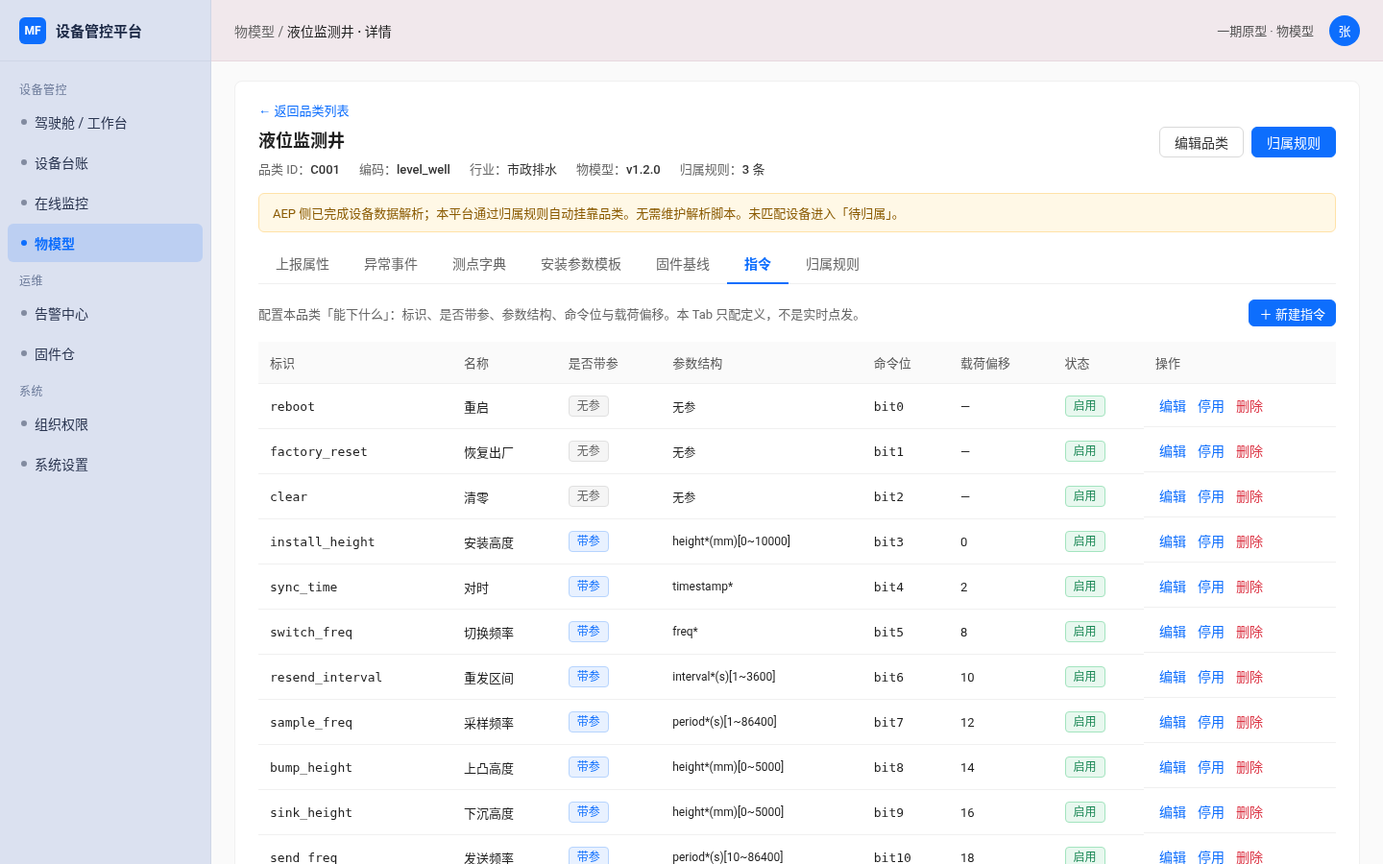
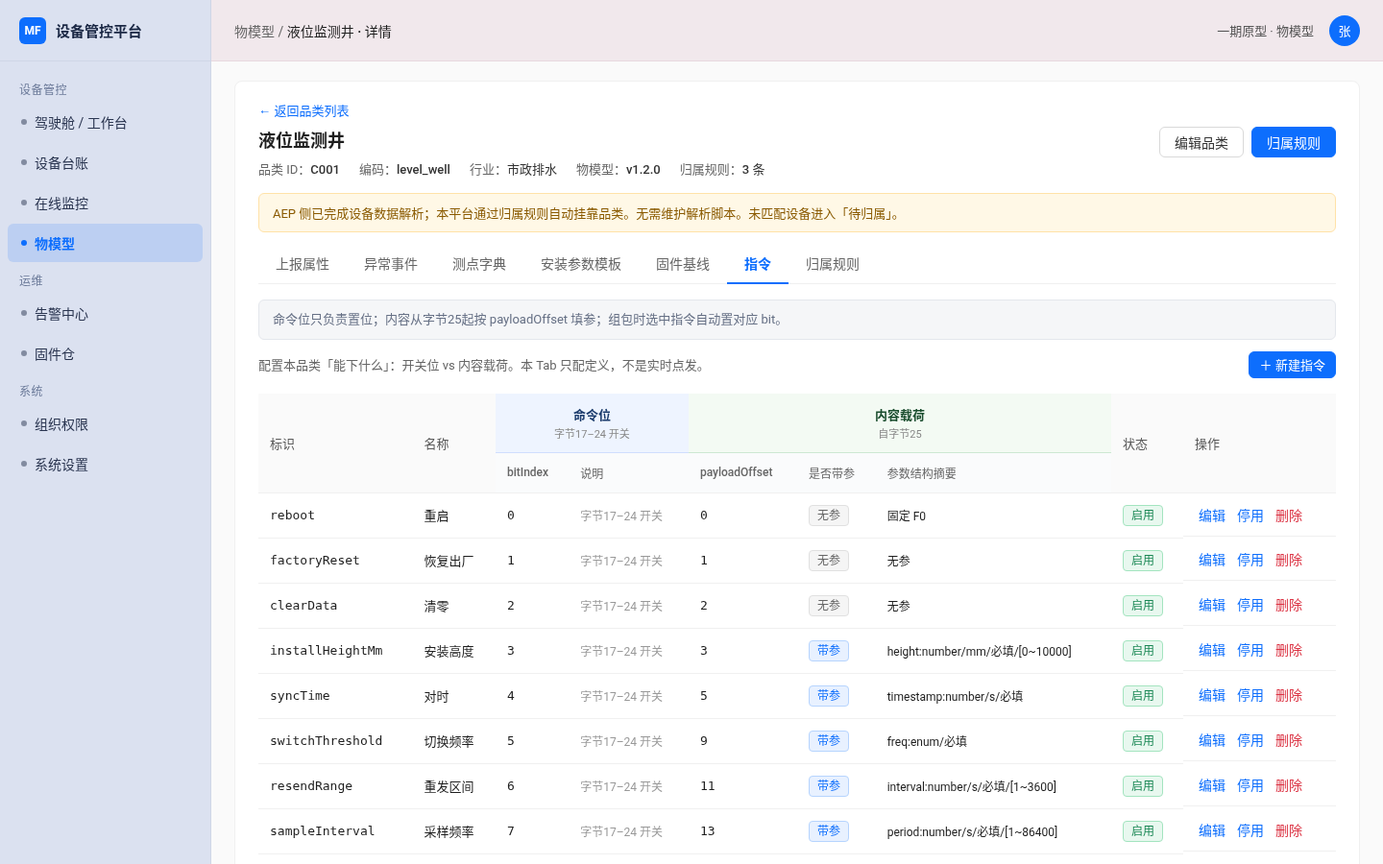
feat: 指令配置拆成命令位开关 + 内容载荷两段

diff --git a/app.js b/app.js
@@ -59,45 +59,46 @@ const FIRMWARES = [
 ];
 
 /* 指令配置：物模型侧定义该品类「能下什么」（非实时点发台）
- * 积水仪命令包 FAFA…ADAD 按位开关；真正下发走 AEP CreateCommand（透传 hex，dataType=2） */
+ * 积水仪 FAFA…ADAD：字节17–24 为 8 字节命令开关位（bit=1 执行）；字节25 起为内容载荷（按 payloadOffset 填参）。
+ * 真正下发走 AEP CreateCommand（透传 hex，dataType=2） */
 const COMMANDS = [
-  { id: 'CMD01', categoryId: 'C001', code: 'reboot', name: '重启', hasParams: false, cmdBit: 0, payloadOffset: null, enabled: true, desc: '积水仪命令包 bit0：远程重启',
+  { id: 'CMD01', categoryId: 'C001', code: 'reboot', name: '重启', hasParams: false, bitIndex: 0, payloadOffset: 0, fixedPayload: 'F0', enabled: true, desc: '开关位 bit0；载荷固定写 F0（或应答 0F）',
     params: [] },
-  { id: 'CMD02', categoryId: 'C001', code: 'factoryReset', name: '恢复出厂', hasParams: false, cmdBit: 1, payloadOffset: null, enabled: true, desc: '积水仪命令包 bit1：恢复出厂设置',
+  { id: 'CMD02', categoryId: 'C001', code: 'factoryReset', name: '恢复出厂', hasParams: false, bitIndex: 1, payloadOffset: 1, fixedPayload: '', enabled: true, desc: '开关位 bit1；无可变参',
     params: [] },
-  { id: 'CMD03', categoryId: 'C001', code: 'clearData', name: '清零', hasParams: false, cmdBit: 2, payloadOffset: null, enabled: true, desc: '积水仪命令包 bit2：累计/计数清零',
+  { id: 'CMD03', categoryId: 'C001', code: 'clearData', name: '清零', hasParams: false, bitIndex: 2, payloadOffset: 2, fixedPayload: '', enabled: true, desc: '开关位 bit2；无可变参',
     params: [] },
-  { id: 'CMD04', categoryId: 'C001', code: 'installHeightMm', name: '安装高度', hasParams: true, cmdBit: 3, payloadOffset: 0, enabled: true, desc: '积水仪命令包 bit3：下发安装高度（mm）',
+  { id: 'CMD04', categoryId: 'C001', code: 'installHeightMm', name: '安装高度', hasParams: true, bitIndex: 3, payloadOffset: 3, fixedPayload: '', enabled: true, desc: '开关位 bit3；载荷写安装高度（mm）',
     params: [
-      { name: 'height', type: 'number', unit: 'mm', required: true, min: '0', max: '10000', defaultVal: '300', desc: '探头安装高度' }
+      { name: 'height', dataType: 'number', unit: 'mm', required: true, min: '0', max: '10000', defaultVal: '300', desc: '探头安装高度' }
     ] },
-  { id: 'CMD05', categoryId: 'C001', code: 'syncTime', name: '对时', hasParams: true, cmdBit: 4, payloadOffset: 2, enabled: true, desc: '积水仪命令包 bit4：设备时钟对时',
+  { id: 'CMD05', categoryId: 'C001', code: 'syncTime', name: '对时', hasParams: true, bitIndex: 4, payloadOffset: 5, fixedPayload: '', enabled: true, desc: '开关位 bit4；载荷写 unix 时间',
     params: [
-      { name: 'timestamp', type: 'string', unit: '-', required: true, min: '', max: '', defaultVal: '', desc: 'UTC 秒或 yyyyMMddHHmmss' }
+      { name: 'timestamp', dataType: 'number', unit: 's', required: true, min: '', max: '', defaultVal: '', desc: 'Unix 秒（UTC）' }
     ] },
-  { id: 'CMD06', categoryId: 'C001', code: 'switchThreshold', name: '切换频率', hasParams: true, cmdBit: 5, payloadOffset: 8, enabled: true, desc: '积水仪命令包 bit5：工作频率档位切换',
+  { id: 'CMD06', categoryId: 'C001', code: 'switchThreshold', name: '切换频率', hasParams: true, bitIndex: 5, payloadOffset: 9, fixedPayload: '', enabled: true, desc: '开关位 bit5；工作频率档位',
     params: [
-      { name: 'freq', type: 'enum', unit: '-', required: true, min: '', max: '', defaultVal: '1', desc: '档位：1=低频 / 2=中频 / 3=高频' }
+      { name: 'freq', dataType: 'enum', unit: '-', required: true, min: '', max: '', defaultVal: '1', desc: '档位：1=低频 / 2=中频 / 3=高频' }
     ] },
-  { id: 'CMD07', categoryId: 'C001', code: 'resendRange', name: '重发区间', hasParams: true, cmdBit: 6, payloadOffset: 10, enabled: true, desc: '积水仪命令包 bit6：失败重发时间窗',
+  { id: 'CMD07', categoryId: 'C001', code: 'resendRange', name: '重发区间', hasParams: true, bitIndex: 6, payloadOffset: 11, fixedPayload: '', enabled: true, desc: '开关位 bit6；失败重发时间窗',
     params: [
-      { name: 'interval', type: 'number', unit: 's', required: true, min: '1', max: '3600', defaultVal: '60', desc: '重发区间秒数' }
+      { name: 'interval', dataType: 'number', unit: 's', required: true, min: '1', max: '3600', defaultVal: '60', desc: '重发区间秒数' }
     ] },
-  { id: 'CMD08', categoryId: 'C001', code: 'sampleInterval', name: '采样频率', hasParams: true, cmdBit: 7, payloadOffset: 12, enabled: true, desc: '积水仪命令包 bit7：采样周期',
+  { id: 'CMD08', categoryId: 'C001', code: 'sampleInterval', name: '采样频率', hasParams: true, bitIndex: 7, payloadOffset: 13, fixedPayload: '', enabled: true, desc: '开关位 bit7；采样周期',
     params: [
-      { name: 'period', type: 'number', unit: 's', required: true, min: '1', max: '86400', defaultVal: '60', desc: '采样间隔秒' }
+      { name: 'period', dataType: 'number', unit: 's', required: true, min: '1', max: '86400', defaultVal: '60', desc: '采样间隔秒' }
     ] },
-  { id: 'CMD09', categoryId: 'C001', code: 'raiseHeightMm', name: '上凸高度', hasParams: true, cmdBit: 8, payloadOffset: 14, enabled: true, desc: '积水仪命令包 bit8：上凸判定高度',
+  { id: 'CMD09', categoryId: 'C001', code: 'raiseHeightMm', name: '上凸高度', hasParams: true, bitIndex: 8, payloadOffset: 15, fixedPayload: '', enabled: true, desc: '开关位 bit8；上凸判定高度',
     params: [
-      { name: 'height', type: 'number', unit: 'mm', required: true, min: '0', max: '5000', defaultVal: '50', desc: '上凸高度阈值' }
+      { name: 'height', dataType: 'number', unit: 'mm', required: true, min: '0', max: '5000', defaultVal: '50', desc: '上凸高度阈值' }
     ] },
-  { id: 'CMD10', categoryId: 'C001', code: 'sinkHeightMm', name: '下沉高度', hasParams: true, cmdBit: 9, payloadOffset: 16, enabled: true, desc: '积水仪命令包 bit9：下沉判定高度',
+  { id: 'CMD10', categoryId: 'C001', code: 'sinkHeightMm', name: '下沉高度', hasParams: true, bitIndex: 9, payloadOffset: 17, fixedPayload: '', enabled: true, desc: '开关位 bit9；下沉判定高度',
     params: [
-      { name: 'height', type: 'number', unit: 'mm', required: true, min: '0', max: '5000', defaultVal: '50', desc: '下沉高度阈值' }
+      { name: 'height', dataType: 'number', unit: 'mm', required: true, min: '0', max: '5000', defaultVal: '50', desc: '下沉高度阈值' }
     ] },
-  { id: 'CMD11', categoryId: 'C001', code: 'sendInterval', name: '发送频率', hasParams: true, cmdBit: 10, payloadOffset: 18, enabled: true, desc: '积水仪命令包 bit10：上报/发送周期',
+  { id: 'CMD11', categoryId: 'C001', code: 'sendInterval', name: '发送频率', hasParams: true, bitIndex: 10, payloadOffset: 19, fixedPayload: '', enabled: true, desc: '开关位 bit10；上报/发送周期',
     params: [
-      { name: 'period', type: 'number', unit: 's', required: true, min: '10', max: '86400', defaultVal: '300', desc: '发送间隔秒' }
+      { name: 'period', dataType: 'number', unit: 's', required: true, min: '10', max: '86400', defaultVal: '300', desc: '发送间隔秒' }
     ] },
 ];
 
@@ -256,7 +257,7 @@ createApp({
     const commandModalMode = ref('create');
     const commandForm = reactive({
       id: '', categoryId: '', name: '', code: '', desc: '', hasParams: false,
-      cmdBit: 0, payloadOffset: null, enabled: true, params: []
+      bitIndex: 0, payloadOffset: 0, fixedPayload: '', enabled: true, params: []
     });
     const commandList = ref(COMMANDS.map(c => ({ ...c, params: (c.params || []).map(p => ({ ...p })) })));
     const COMMAND_PARAM_TYPES = ['string', 'number', 'enum', 'bool'];
@@ -646,18 +647,22 @@ createApp({
       if (idx >= 0) categoryRules.value.splice(idx, 1, { ...r, enabled: !r.enabled });
     }
     function emptyCommandParam() {
-      return { name: '', type: 'number', unit: '', required: true, min: '', max: '', defaultVal: '', desc: '' };
+      return { name: '', dataType: 'number', unit: '', required: true, min: '', max: '', defaultVal: '', desc: '' };
     }
     function commandParamsSummary(cmd) {
-      if (!cmd.hasParams) return '无参';
+      if (!cmd.hasParams) {
+        return cmd.fixedPayload ? ('固定 ' + cmd.fixedPayload) : '无参';
+      }
       const ps = cmd.params || [];
       if (!ps.length) return '带参（未配）';
       return ps.map(p => {
+        const dt = p.dataType || p.type || '';
         const u = p.unit && p.unit !== '-' ? p.unit : '';
+        const req = p.required ? '必填' : '选填';
         const range = (p.min !== '' && p.min != null) || (p.max !== '' && p.max != null)
           ? '[' + (p.min !== '' && p.min != null ? p.min : '') + '~' + (p.max !== '' && p.max != null ? p.max : '') + ']'
           : '';
-        return p.name + (p.required ? '*' : '') + (u ? '(' + u + ')' : '') + range;
+        return p.name + (dt ? ':' + dt : '') + (u ? '/' + u : '') + '/' + req + (range ? '/' + range : '');
       }).join(', ');
     }
     function onCommandHasParamsChange() {
@@ -666,14 +671,13 @@ createApp({
         if (commandForm.payloadOffset === null || commandForm.payloadOffset === '') commandForm.payloadOffset = 0;
       } else {
         commandForm.params.splice(0, commandForm.params.length);
-        commandForm.payloadOffset = null;
       }
     }
     function openCreateCommand() {
       commandModalMode.value = 'create';
       Object.assign(commandForm, {
         id: '', categoryId: currentCategory.value.id, name: '', code: '', desc: '',
-        hasParams: false, cmdBit: 0, payloadOffset: null, enabled: true, params: []
+        hasParams: false, bitIndex: 0, payloadOffset: 0, fixedPayload: '', enabled: true, params: []
       });
       showCommandModal.value = true;
     }
@@ -682,15 +686,19 @@ createApp({
       Object.assign(commandForm, {
         ...c,
         hasParams: !!c.hasParams,
-        payloadOffset: c.payloadOffset == null ? null : c.payloadOffset,
-        params: (c.hasParams && c.params && c.params.length) ? c.params.map(p => ({ ...p })) : []
+        bitIndex: c.bitIndex != null ? c.bitIndex : (c.cmdBit != null ? c.cmdBit : 0),
+        payloadOffset: c.payloadOffset == null ? 0 : c.payloadOffset,
+        fixedPayload: c.fixedPayload || '',
+        params: (c.hasParams && c.params && c.params.length)
+          ? c.params.map(p => ({ ...p, dataType: p.dataType || p.type || 'number' }))
+          : []
       });
       showCommandModal.value = true;
     }
     function addCommandParam() {
       if (!commandForm.hasParams) {
         commandForm.hasParams = true;
-        commandForm.payloadOffset = commandForm.payloadOffset == null ? 0 : commandForm.payloadOffset;
+        if (commandForm.payloadOffset === null || commandForm.payloadOffset === '') commandForm.payloadOffset = 0;
       }
       commandForm.params.push(emptyCommandParam());
     }
@@ -706,13 +714,18 @@ createApp({
         name: (commandForm.name || '').trim(),
         desc: commandForm.desc || '',
         hasParams,
-        cmdBit: Number(commandForm.cmdBit),
-        payloadOffset: hasParams ? (commandForm.payloadOffset === '' || commandForm.payloadOffset == null ? 0 : Number(commandForm.payloadOffset)) : null,
+        bitIndex: Number(commandForm.bitIndex),
+        payloadOffset: commandForm.payloadOffset === '' || commandForm.payloadOffset == null ? 0 : Number(commandForm.payloadOffset),
+        fixedPayload: hasParams ? '' : ((commandForm.fixedPayload || '').trim()),
         enabled: !!commandForm.enabled,
         params: hasParams
           ? (commandForm.params || [])
               .filter(p => (p.name || '').trim())
-              .map(p => ({ ...p, name: (p.name || '').trim() }))
+              .map(p => ({
+                ...p,
+                name: (p.name || '').trim(),
+                dataType: p.dataType || p.type || 'number'
+              }))
           : []
       };
       if (commandModalMode.value === 'create') {
@@ -1369,26 +1382,40 @@ createApp({
               <tbody><tr v-for="f in FIRMWARES" :key="f.id"><td><code>{{ f.model }}</code></td><td>{{ f.currentVersion }}</td><td>{{ f.upgradeVersion || '—' }}</td><td>{{ f.releaseDate }}</td><td><span class="tag" :class="f.status==='可升级'?'tag-orange':(f.status==='最新'?'tag-green':'tag-blue')">{{ f.status }}</span></td><td style="max-width:240px;white-space:normal">{{ f.changelog }}</td><td class="actions"><button class="btn-link btn" @click="openEditFirmware(f)">编辑</button><button class="btn-link btn danger" @click="confirmDelete('固件版本', f.id, f.model+' '+f.currentVersion)">删除</button></td></tr></tbody></table></div>
           </div>
           <div v-else-if="detailTab==='commands'">
+            <div class="banner-muted">命令位只负责置位；内容从字节25起按 payloadOffset 填参；组包时选中指令自动置对应 bit。</div>
             <div class="toolbar">
-              <span style="color:#666;font-size:13px">配置本品类「能下什么」：标识、是否带参、参数结构、命令位与载荷偏移。本 Tab 只配定义，不是实时点发。</span>
+              <span style="color:#666;font-size:13px">配置本品类「能下什么」：开关位 vs 内容载荷。本 Tab 只配定义，不是实时点发。</span>
               <div class="spacer"></div>
               <button class="btn btn-primary btn-sm" @click="openCreateCommand">＋ 新建指令</button>
             </div>
             <div class="table-wrap">
-              <table class="data-table">
+              <table class="data-table cmd-table">
                 <thead>
                   <tr>
-                    <th>标识</th><th>名称</th><th>是否带参</th><th>参数结构</th><th>命令位</th><th>载荷偏移</th><th>状态</th><th>操作</th>
+                    <th rowspan="2">标识</th>
+                    <th rowspan="2">名称</th>
+                    <th colspan="2" class="th-group th-group-bit">命令位<span class="th-sub">字节17–24 开关</span></th>
+                    <th colspan="3" class="th-group th-group-payload">内容载荷<span class="th-sub">自字节25</span></th>
+                    <th rowspan="2">状态</th>
+                    <th rowspan="2">操作</th>
+                  </tr>
+                  <tr>
+                    <th class="th-subcol">bitIndex</th>
+                    <th class="th-subcol">说明</th>
+                    <th class="th-subcol">payloadOffset</th>
+                    <th class="th-subcol">是否带参</th>
+                    <th class="th-subcol">参数结构摘要</th>
                   </tr>
                 </thead>
                 <tbody>
                   <tr v-for="c in currentCategoryCommands" :key="c.id">
                     <td><code>{{ c.code }}</code></td>
                     <td>{{ c.name }}</td>
+                    <td><code>{{ c.bitIndex }}</code></td>
+                    <td class="muted-cell">字节17–24 开关</td>
+                    <td><code>{{ c.payloadOffset != null ? c.payloadOffset : '—' }}</code></td>
                     <td><span class="tag" :class="c.hasParams?'tag-blue':'tag-gray'">{{ c.hasParams?'带参':'无参' }}</span></td>
-                    <td style="max-width:260px;white-space:normal;font-size:12px">{{ commandParamsSummary(c) }}</td>
-                    <td><code>bit{{ c.cmdBit }}</code></td>
-                    <td>{{ c.hasParams && c.payloadOffset != null ? c.payloadOffset : '—' }}</td>
+                    <td style="max-width:280px;white-space:normal;font-size:12px">{{ commandParamsSummary(c) }}</td>
                     <td><span class="tag" :class="c.enabled?'tag-green':'tag-gray'">{{ c.enabled?'启用':'停用' }}</span></td>
                     <td class="actions">
                       <button class="btn-link btn" @click="openEditCommand(c)">编辑</button>
@@ -1397,12 +1424,12 @@ createApp({
                     </td>
                   </tr>
                   <tr v-if="!currentCategoryCommands.length">
-                    <td colspan="8"><div class="empty-hint">暂无指令；点击「新建指令」配置本品类可下发命令</div></td>
+                    <td colspan="9"><div class="empty-hint">暂无指令；点击「新建指令」配置本品类可下发命令</div></td>
                   </tr>
                 </tbody>
               </table>
             </div>
-            <div class="table-note">积水仪命令包示意：FAFA…ADAD 按位开关。真正下发走 AEP CreateCommand（透传 hex，dataType=2）；设备应答另解析入库。本 Tab 只配定义。</div>
+            <div class="table-note">积水仪协议示意 FAFA…ADAD：字节17–24 为命令开关（bit=1 执行）；字节25 起按各指令 payloadOffset 写入内容（如 reboot→F0、高度 mm、unix 对时）。真正下发走 AEP CreateCommand（透传 hex，dataType=2）；应答另解析入库。</div>
           </div>
           <div v-else-if="detailTab==='rules'">
             <div class="toolbar">
@@ -2293,28 +2320,22 @@ createApp({
       </div>
     </div>
 
-    <!-- 物模型：指令配置模态 -->
+    <!-- 物模型：指令配置模态 — 命令开关 vs 命令内容 -->
     <div v-if="showCommandModal" class="overlay" @click.self="showCommandModal=false">
       <div class="modal modal-lg">
         <div class="modal-header"><span>{{ commandModalMode==='create'?'新建指令':'编辑指令' }}</span><button class="close-x" @click="showCommandModal=false">×</button></div>
         <div class="modal-body">
-          <div class="banner-tip" style="margin-bottom:12px;font-size:12px;color:#666">真正下发走 AEP CreateCommand（透传 hex，dataType=2）；设备应答另解析入库。本弹窗只配物模型定义。</div>
+          <div class="banner-muted" style="margin-bottom:12px">命令位只负责置位；内容从字节25起按 payloadOffset 填参；组包时选中指令自动置对应 bit。真正下发走 AEP CreateCommand（透传 hex，dataType=2）。</div>
+
+          <div class="form-section-title">命令开关</div>
+          <div class="hint" style="margin-top:-6px;margin-bottom:10px">对应协议字节17–24：bit=1 表示该指令执行（仅开关，不带内容）。</div>
           <div class="form-row">
+            <div class="form-item"><label><span class="req">*</span>bitIndex</label>
+              <input class="input input-full" v-model.number="commandForm.bitIndex" type="number" min="0" max="10" placeholder="0～10" />
+              <div class="hint">0～10，对应 8 字节开关区中的位</div>
+            </div>
             <div class="form-item"><label><span class="req">*</span>标识</label><input class="input input-full" v-model="commandForm.code" placeholder="如 reboot、installHeightMm" /></div>
             <div class="form-item"><label><span class="req">*</span>名称</label><input class="input input-full" v-model="commandForm.name" placeholder="如 重启、安装高度" /></div>
-          </div>
-          <div class="form-row">
-            <div class="form-item"><label><span class="req">*</span>是否带参</label>
-              <select class="select input-full" v-model="commandForm.hasParams" @change="onCommandHasParamsChange">
-                <option :value="false">无参</option>
-                <option :value="true">带参</option>
-              </select>
-            </div>
-            <div class="form-item"><label><span class="req">*</span>命令位 (bit)</label><input class="input input-full" v-model.number="commandForm.cmdBit" type="number" min="0" placeholder="0～n" /></div>
-            <div class="form-item"><label>载荷偏移</label>
-              <input class="input input-full" v-model.number="commandForm.payloadOffset" type="number" min="0" :disabled="!commandForm.hasParams" :placeholder="commandForm.hasParams?'字节偏移':'无参无需偏移'" />
-              <div class="hint">带参时相对命令包载荷区起点的字节偏移</div>
-            </div>
           </div>
           <div class="form-row">
             <div class="form-item"><label>启用</label>
@@ -2323,20 +2344,39 @@ createApp({
                 <option :value="false">停用</option>
               </select>
             </div>
+            <div class="form-item"><label>说明</label><input class="input input-full" v-model="commandForm.desc" placeholder="开关位用途说明" /></div>
           </div>
-          <div class="form-item"><label>说明</label><textarea class="textarea input-full" v-model="commandForm.desc" placeholder="对应积水仪命令包位说明等"></textarea></div>
+
+          <div class="form-section-title">命令内容</div>
+          <div class="hint" style="margin-top:-6px;margin-bottom:10px">自字节25起按 payloadOffset 写入；无可变参时可填固定载荷提示（如 reboot → F0）。</div>
+          <div class="form-row">
+            <div class="form-item"><label><span class="req">*</span>是否带参</label>
+              <select class="select input-full" v-model="commandForm.hasParams" @change="onCommandHasParamsChange">
+                <option :value="false">无参</option>
+                <option :value="true">带参</option>
+              </select>
+            </div>
+            <div class="form-item"><label><span class="req">*</span>payloadOffset</label>
+              <input class="input input-full" v-model.number="commandForm.payloadOffset" type="number" min="0" placeholder="相对字节25的偏移" />
+              <div class="hint">内容区起点为字节25；本组包偏移填入此处</div>
+            </div>
+            <div class="form-item" v-if="!commandForm.hasParams"><label>固定载荷提示</label>
+              <input class="input input-full" v-model="commandForm.fixedPayload" placeholder="如 F0（reboot）" />
+              <div class="hint">无参指令的固定内容示意，可选</div>
+            </div>
+          </div>
           <template v-if="commandForm.hasParams">
-            <div class="form-section-title" style="display:flex;align-items:center;justify-content:space-between">
-              <span>参数结构（类型 / 单位 / 校验）</span>
+            <div class="form-section-title" style="display:flex;align-items:center;justify-content:space-between;border-bottom:none;padding-bottom:0;margin-top:4px">
+              <span style="font-size:13px;font-weight:600">参数字段</span>
               <button type="button" class="btn btn-sm" @click="addCommandParam">＋ 添加参数</button>
             </div>
             <div class="param-list">
               <div class="param-row param-row-cmd param-row-head">
-                <span>参数名</span><span>类型</span><span>单位</span><span>必填</span><span>下限</span><span>上限</span><span>默认值</span><span>说明</span><span></span>
+                <span>参数名</span><span>dataType</span><span>单位</span><span>必填</span><span>下限</span><span>上限</span><span>默认值</span><span>说明</span><span></span>
               </div>
               <div class="param-row param-row-cmd" v-for="(p, idx) in commandForm.params" :key="idx">
                 <input class="input" v-model="p.name" placeholder="name" />
-                <select class="select" v-model="p.type">
+                <select class="select" v-model="p.dataType">
                   <option v-for="t in COMMAND_PARAM_TYPES" :key="t" :value="t">{{ t }}</option>
                 </select>
                 <input class="input" v-model="p.unit" placeholder="mm / s" />
@@ -2353,7 +2393,6 @@ createApp({
               <div v-if="!commandForm.params.length" class="empty-hint" style="padding:8px">尚未添加参数字段</div>
             </div>
           </template>
-          <div class="hint" style="margin-top:8px">帧格式示意 FAFA…ADAD；按命令位置位并写入对应载荷偏移。枚举可选值可写在说明中。</div>
         </div>
         <div class="modal-footer"><button class="btn" @click="showCommandModal=false">取消</button><button class="btn btn-primary" @click="saveCommand">确定</button></div>
       </div>

diff --git a/styles.css b/styles.css
@@ -1057,3 +1057,48 @@ table.data-table .actions { display: flex; gap: 4px; flex-wrap: wrap; }
   padding: 4px 8px;
   height: 32px;
 }
+
+/* 物模型 · 指令 Tab：开关位 vs 内容载荷 */
+.banner-muted {
+  background: #f5f6f8;
+  border: 1px solid #e4e7ec;
+  color: #667085;
+  border-radius: 6px;
+  padding: 10px 14px;
+  font-size: 13px;
+  margin-bottom: 12px;
+  line-height: 1.5;
+}
+.cmd-table thead th.th-group {
+  text-align: center;
+  font-weight: 600;
+  background: #f8fafc;
+}
+.cmd-table thead th.th-group-bit {
+  background: #eef4ff;
+  color: #1a3a6b;
+  border-bottom: 1px solid #d0defe;
+}
+.cmd-table thead th.th-group-payload {
+  background: #f3faf3;
+  color: #1a4d2e;
+  border-bottom: 1px solid #cde8d2;
+}
+.cmd-table .th-sub {
+  display: block;
+  font-size: 11px;
+  font-weight: 400;
+  color: #888;
+  margin-top: 2px;
+}
+.cmd-table thead th.th-subcol {
+  font-size: 12px;
+  font-weight: 500;
+  color: #666;
+  background: #fafbfc;
+}
+.cmd-table .muted-cell {
+  font-size: 12px;
+  color: #999;
+  white-space: nowrap;
+}

diff --git a/README.md b/README.md
@@ -24,7 +24,7 @@ python3 -m http.server 8877
 
 ### 物模型
 - 物模型定义**产品类型语义**（测点 / 事件 / 阈值 / 安装模板 / 固件 / **指令**）。
-- **指令 Tab** = 配置该品类「能下什么」（标识、是否带参、参数结构、命令位 bit、载荷偏移）；**不是**实时点发。积水仪示意命令包 `FAFA…ADAD` 按位开关；真正下发走 AEP CreateCommand（透传 hex，dataType=2），应答另解析入库。
+- **指令 Tab** = 配置该品类「能下什么」：**命令位（开关）** vs **内容载荷**；**不是**实时点发。积水仪 `FAFA…ADAD`：字节17–24 为 8 字节开关（bit=1 执行）；字节25 起按 `payloadOffset` 填参（如 reboot→F0、高度 mm、unix 对时）。组包时选中指令自动置对应 bit。真正下发走 AEP CreateCommand（透传 hex，dataType=2），应答另解析入库。
 - **不再**在品类上直接绑定 AEP 产品/型号；无「绑定 AEP 产品」主流程。
 - **无解析脚本 UI**：AEP 侧已完成设备数据解析。
 - 品类配置 **归属规则**（通用规则默认匹配 + 特殊处理规则更高优先级）。匹配条件含 AEP 产品 ID、协议 ID/名称等自由文本。
@@ -55,7 +55,7 @@ python3 -m http.server 8877
 | 3 | 编辑品类（模态） | `#editCategory` |
 | 4 | 物模型详情壳 + Tab | `#detail` |
 | 4a–4g | 上报属性 / 异常事件 / 测点 / 安装参数 / 固件 / **指令** / **归属规则** | `#props` `#events` `#points` `#install` `#firmware` `#commands` `#rules` / `#categoryRules` |
-| 4h | 新建/编辑指令（模态：标识 / 是否带参 / 参数结构 / 命令位 / 载荷偏移） | `#editCommand` |
+| 4h | 新建/编辑指令（模态：命令开关 bitIndex / 命令内容 hasParam·payloadOffset·参数） | `#editCommand` |
 | 5–7 | 编辑测点 / 安装字段 / 固件 | `#editPoint` `#editInstall` `#editFirmware` |
 | 8 | 删除确认 | `#deleteConfirm` |
 
